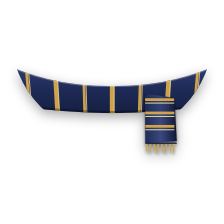
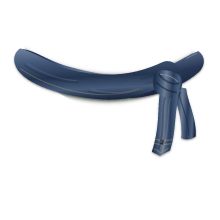
Drape MÔRA neckwear with soft cloth folds and gravity-led pearls

Changed region(s): [[0.0545, 0.2182, 0.9273, 0.7091]]

diff --git a/lib/mora/accessoryAdapter.ts b/lib/mora/accessoryAdapter.ts
@@ -62,16 +62,16 @@ export const JADE_MOUNTS: Record<string, AccessoryMount> = {
     anchor: { x: 0, y: -0.435 }, scale: 0.94, layer: 'front', animation: 'none',
   },
   'jade-scarf': {
-    id: 'jade-scarf', slot: 'neck', asset: '/mora/jade/acc/jade-scarf.svg', backAsset: '/mora/jade/acc/jade-scarf-back.svg', aspect: 1060 / 620,
-    anchor: { x: 0, y: 0.41 }, scale: 1.06, layer: 'front', animation: 'none',
+    id: 'jade-scarf', slot: 'neck', asset: '/mora/jade/acc/jade-scarf.svg', backAsset: '/mora/jade/acc/jade-scarf-back.svg', aspect: 1160 / 800,
+    anchor: { x: 0, y: 0.48 }, scale: 1.16, layer: 'front', animation: 'none',
   },
   'pearl-necklace': {
-    id: 'pearl-necklace', slot: 'neck', asset: '/mora/jade/acc/pearl-necklace.svg', aspect: 1000 / 600,
-    anchor: { x: 0, y: 0.26 }, scale: 1, layer: 'front', animation: 'none',
+    id: 'pearl-necklace', slot: 'neck', asset: '/mora/jade/acc/pearl-necklace.svg', backAsset: '/mora/jade/acc/pearl-necklace-back.svg', aspect: 1120 / 820,
+    anchor: { x: 0, y: 0.41 }, scale: 1.12, layer: 'front', animation: 'none',
   },
   'founder-scarf': {
-    id: 'founder-scarf', slot: 'neck', asset: '/mora/jade/acc/founder-scarf.svg', backAsset: '/mora/jade/acc/founder-scarf-back.svg', aspect: 1060 / 620,
-    anchor: { x: 0, y: 0.41 }, scale: 1.06, layer: 'front', animation: 'none',
+    id: 'founder-scarf', slot: 'neck', asset: '/mora/jade/acc/founder-scarf.svg', backAsset: '/mora/jade/acc/founder-scarf-back.svg', aspect: 1160 / 800,
+    anchor: { x: 0, y: 0.48 }, scale: 1.16, layer: 'front', animation: 'none',
   },
   'founder-f1': {
     id: 'founder-f1', slot: 'neck', asset: '/mora/jade/acc/founder-f1.svg', aspect: 224 / 240,
